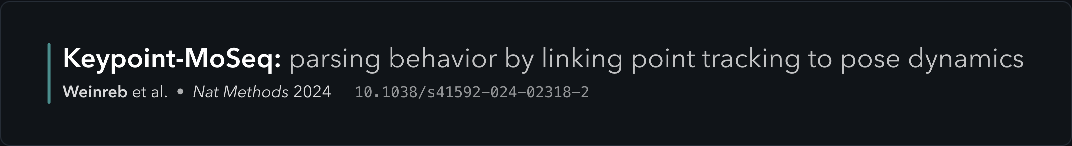
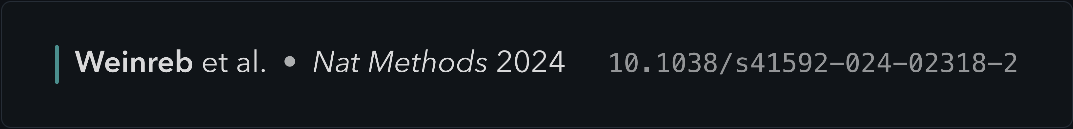
Drop the title from the footer strip
A footer credit sits under a slide that already carries the title, so the
strip is now a single line of authors, journal, year and DOI. It shrinks to
fit rather than wrapping, and the height follows from the one row.

Changed region(s): [[0.0308, 0.3101, 0.9543, 0.7132], [0.0, 0.9612, 1.0, 1.0], [0.3386, 0.5891, 0.5541, 0.6822]]

diff --git a/js/layout.js b/js/layout.js
@@ -244,32 +244,19 @@ const Layout = (() => {
     return { width: W, height: H, prims };
   }
 
+    /* The footer strip is a one-line credit: authors, journal, year, DOI.
+     No title — that belongs on the slide itself. */
   function buildStrip(m, opt, s) {
     const { W: maxW, family, ink, dim, prims } = s;
     const padX = Math.round(maxW * 0.017);
-    const padY = 30;
+    const padY = 26;
     const ruleW = opt.showRule ? Math.max(3, Math.round(maxW * 0.0025)) : 0;
     const ruleGap = opt.showRule ? Math.round(maxW * 0.010) : 0;
     const textX = padX + ruleW + ruleGap;
 
     const doiText = opt.showDoi && m.doi ? m.doi : '';
-    let titleSize = 54;
-    let metaSize, doiSize, lines, blockH;
-
-    // Prefer a single line: shrink first, and only wrap to a second row when
-    // the title is genuinely too long to stay legible.
-    const fit = (maxLines, floor) => {
-      for (;;) {
-        metaSize = Math.round(titleSize * 0.62);
-        doiSize = Math.round(titleSize * 0.56);
-        lines = wrapRuns(titleRuns(m.title || ''), titleSize, family, maxW - textX - padX);
-        blockH = lines.length * titleSize * 1.16 + Math.round(titleSize * 0.30) + metaSize * 1.30;
-        if (lines.length <= maxLines || titleSize <= floor) return lines.length <= maxLines;
-        titleSize = Math.round(titleSize * 0.95);
-      }
-    };
-
-    if (!fit(1, 38)) { titleSize = 46; fit(2, 30); }
+    let metaSize = 46;
+    let doiSize = Math.round(metaSize * 0.86);
 
     const runs = [];
     if (m.authors) {
@@ -282,34 +269,26 @@ const Layout = (() => {
     }
     if (m.year) runs.push({ text: ' ' + m.year, weight: 400 });
 
-    const metaW = runs.reduce((w, r) => w + measure(r, metaSize, family), 0);
-    const doiGap = doiText && runs.length ? Math.round(metaSize * 1.4) : 0;
-    const doiW = doiText ? measure({ text: doiText, mono: true }, doiSize, family) : 0;
+    // Shrink to fit rather than wrap — a footer credit should stay one line.
+    let metaW, doiGap, doiW, rowW;
+    for (;;) {
+      doiSize = Math.round(metaSize * 0.86);
+      metaW = runs.reduce((w, r) => w + measure(r, metaSize, family), 0);
+      doiGap = doiText && runs.length ? Math.round(metaSize * 1.4) : 0;
+      doiW = doiText ? measure({ text: doiText, mono: true }, doiSize, family) : 0;
+      rowW = metaW + doiGap + doiW;
+      if (rowW <= maxW - textX - padX || metaSize <= 24) break;
+      metaSize -= 2;
+    }
 
-    // The canvas is only as wide as the widest row — no dead space on the right.
-    const titleW = lines.reduce((w, l) =>
-      Math.max(w, l.runs.reduce((a, r) => a + measure(r, titleSize, family), 0)), 0);
-    const W = Math.min(maxW, Math.ceil(Math.max(titleW, metaW + doiGap + doiW) + textX + padX));
+    const blockH = metaSize * 1.30;
 
-    const H = Math.max(120, Math.round(blockH + padY * 2));
+    // The canvas is only as wide as the row — no dead space on the right.
+    const W = Math.min(maxW, Math.ceil(rowW + textX + padX));
+    const H = Math.round(blockH + padY * 2);
+
     let y = Math.round((H - blockH) / 2);
     const blockTop = y;
-
-    lines.forEach(line => {
-      let x = textX;
-      const baseline = y + titleSize * 0.90;
-      line.runs.forEach(run => {
-        prims.push({
-          t: 'text', x, y: baseline, size: titleSize, family,
-          weight: run.weight || 400, italic: !!run.italic, mono: !!run.mono,
-          fill: ink, opacity: run.opacity != null ? run.opacity : 1, text: run.text
-        });
-        x += measure(run, titleSize, family);
-      });
-      y += titleSize * 1.16;
-    });
-
-    y += Math.round(titleSize * 0.30);
     const metaBaseline = y + metaSize * 0.90;
 
     let x = textX;
@@ -329,7 +308,7 @@ const Layout = (() => {
       });
     }
 
-    y += metaSize * 1.30;
+    y += blockH;
 
     if (opt.showRule) {
       prims.unshift({

diff --git a/README.md b/README.md
@@ -21,7 +21,8 @@ links straight to the DOI.
   `doi.org` content negotiation.
 - Renders two shapes:
   - **Card** — 1800 px wide, for a title slide or a section divider.
-  - **Footer strip** — a thin credit for the bottom of a slide.
+  - **Footer strip** — a thin one-line credit (authors, journal, year, DOI)
+    for the bottom of a slide you have already titled.
 
   Both are sized to their content, so there is no dead space around the text.
 - Exports **PNG** (at 2×, so it stays crisp on a projector) or **SVG**. The
